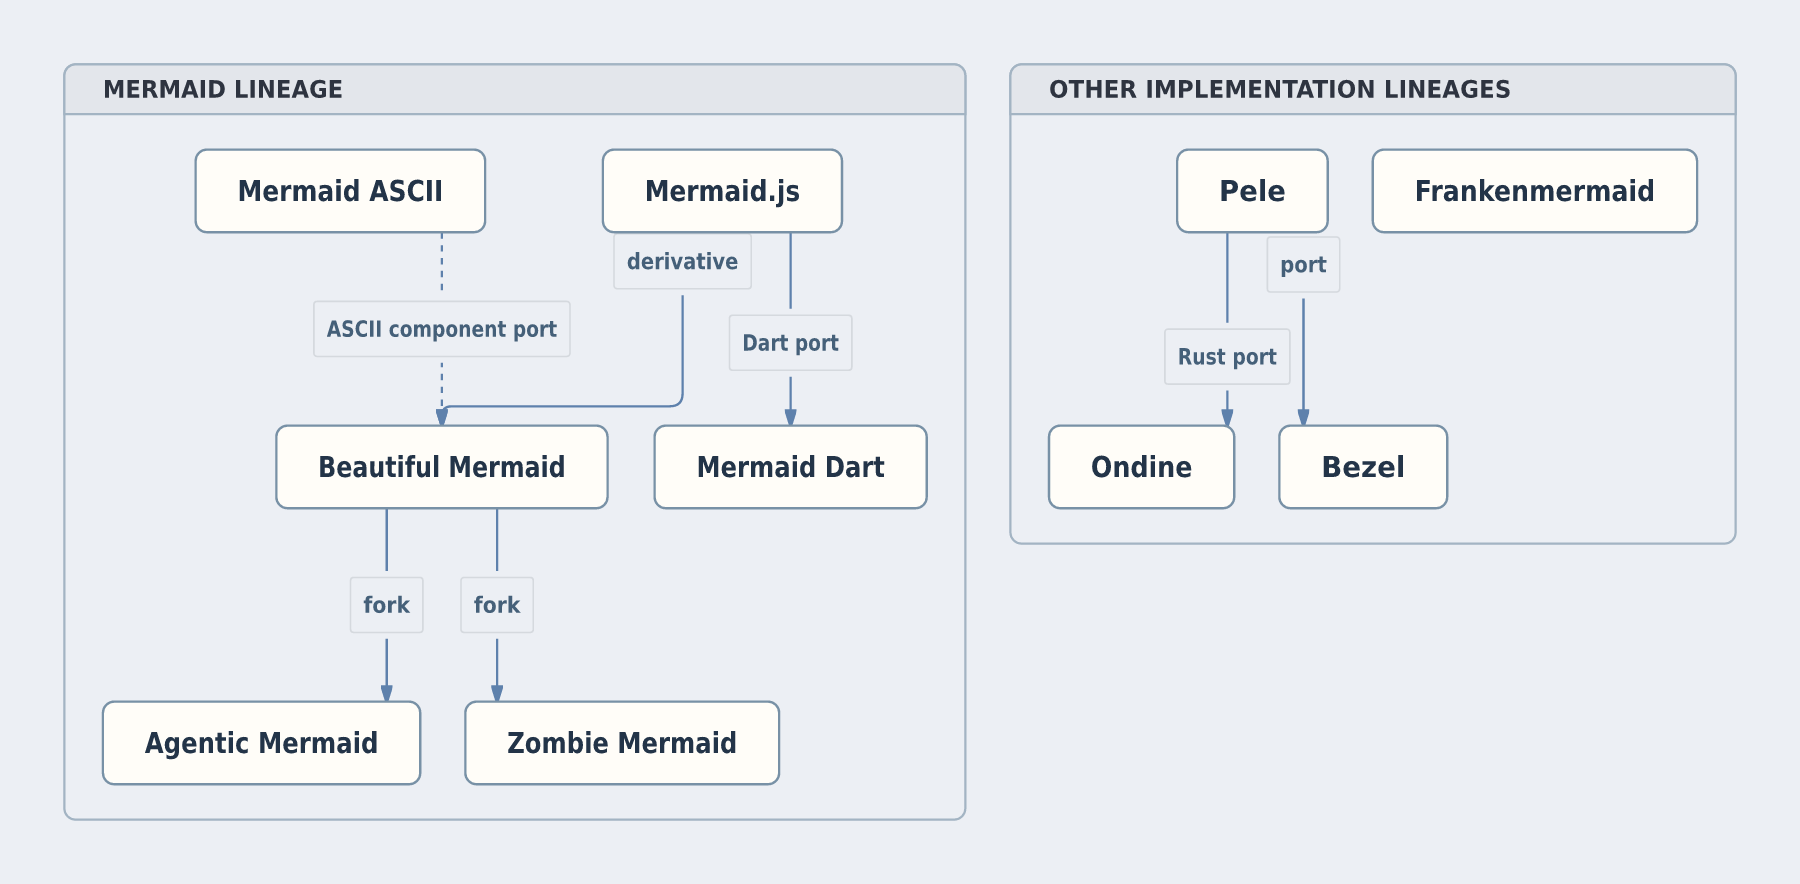
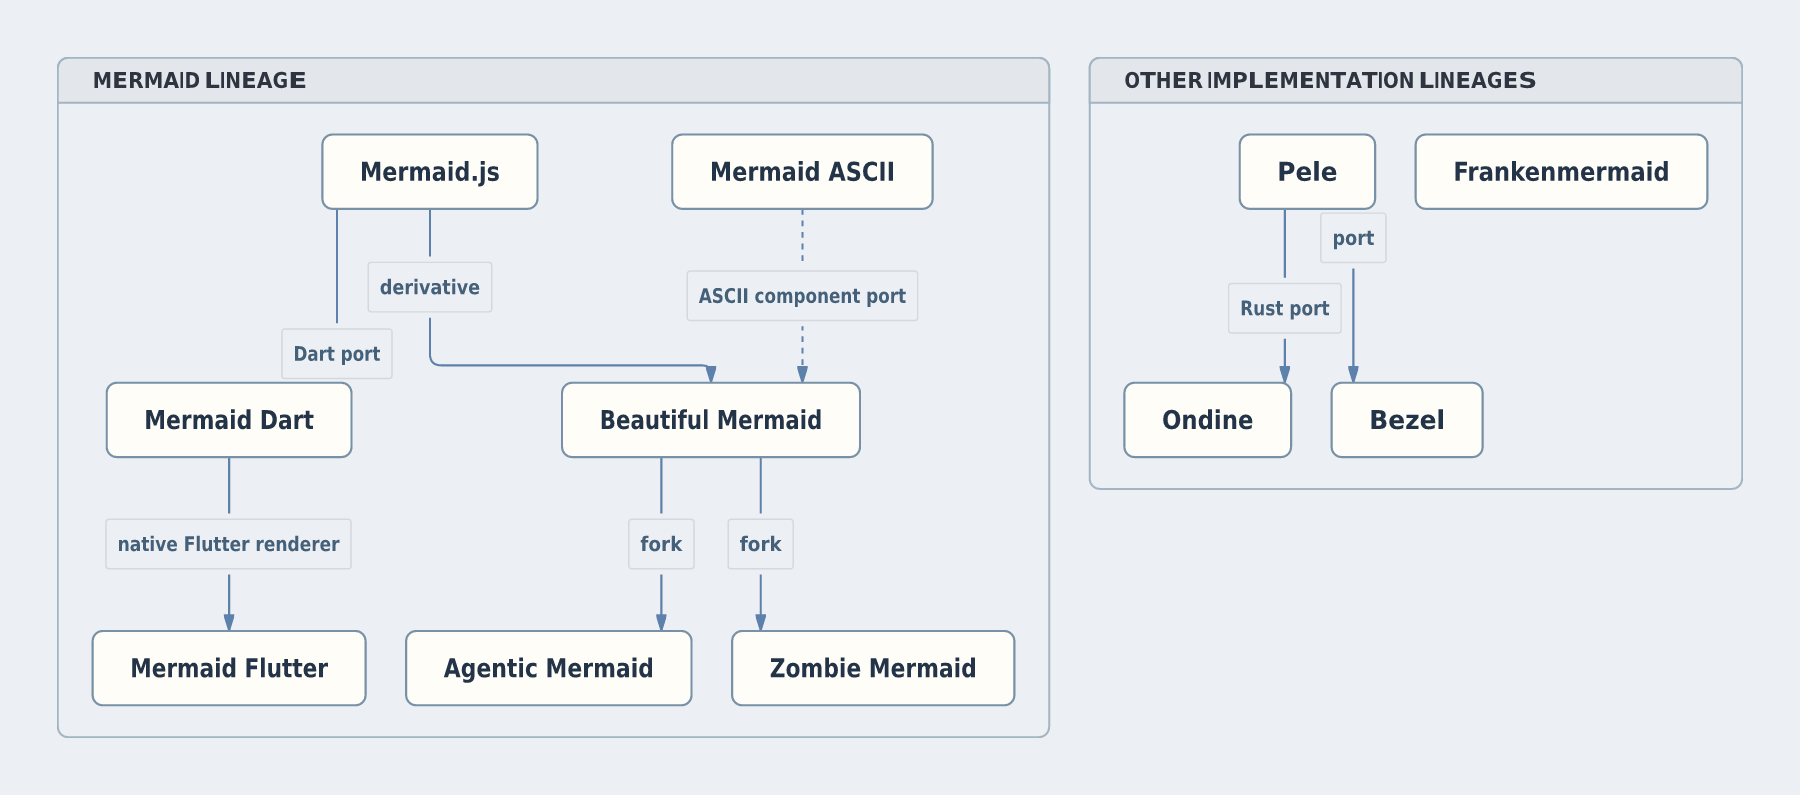
Render separate Dart and Flutter brands and update selection checks

diff --git a/tests/benchmark-skip.test.ts b/tests/benchmark-skip.test.ts
@@ -44,7 +44,8 @@ test('a release pause skips before acquisition, survives descendant overrides, a
     const actual = JSON.parse(readFileSync(new URL('../catalog/mermaid-community.json', import.meta.url), 'utf8'))
     const requested = actual.nodes.map((node: { id: string }) => node.id)
     const selected = comparisonProjects(actual, requested)
-    expect(selected.included).toHaveLength(38)
+    expect(selected.included).toHaveLength(39)
+    expect(selected.included).toContain('pub:mermaid_flutter')
     expect(selected.included).not.toContain('justsml/rusty-mermaid')
   } finally { rmSync(root, { recursive: true, force: true }) }
 })
